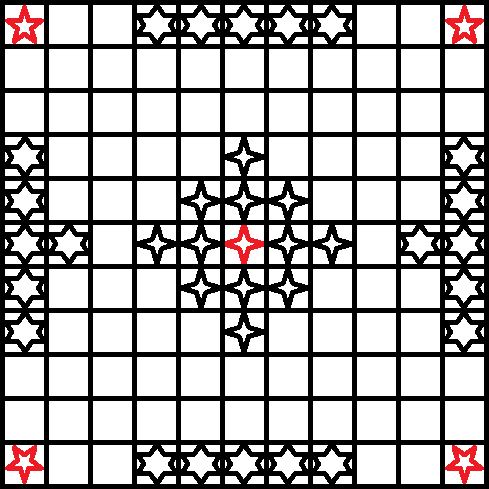
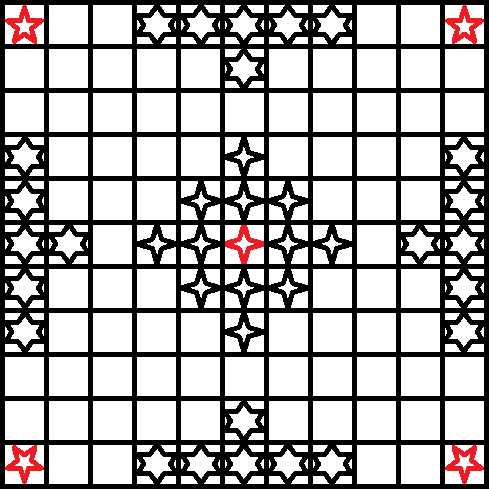
Le jeu est jouable, il manque les tours

Changed region(s): [[0.4601, 0.7975, 0.5521, 0.9202], [0.4601, 0.092, 0.5521, 0.184]]

diff --git a/MainWindow.cpp b/MainWindow.cpp
@@ -14,13 +14,54 @@ MainWindow::MainWindow()
 		}
 	}  
 
-	m_etatJeu[0][5] = PIECE_BLANC;
+	m_etatJeu[0][3] = PIECE_NOIR;
+	m_etatJeu[0][4] = PIECE_NOIR;
+	m_etatJeu[0][5] = PIECE_NOIR;
+	m_etatJeu[0][6] = PIECE_NOIR;
+	m_etatJeu[0][7] = PIECE_NOIR;
 	m_etatJeu[1][5] = PIECE_NOIR;
-	m_etatJeu[4][5] = PIECE_NOIR;
-	m_etatJeu[3][5] = PIECE_NOIR;
-	m_etatJeu[2][5] = PIECE_NOIR;
-	m_etatJeu[5][5] = PIECE_ROI;
-	m_etatJeu[2][3] = PIECE_NOIR;
+
+	m_etatJeu[10][3] = PIECE_NOIR;
+	m_etatJeu[10][4] = PIECE_NOIR;
+	m_etatJeu[10][5] = PIECE_NOIR;
+	m_etatJeu[10][6] = PIECE_NOIR;
+	m_etatJeu[10][7] = PIECE_NOIR;
+	m_etatJeu[9][5] = PIECE_NOIR;
+
+	m_etatJeu[3][0] = PIECE_NOIR;
+	m_etatJeu[4][0] = PIECE_NOIR;
+	m_etatJeu[5][0] = PIECE_NOIR;
+	m_etatJeu[6][0] = PIECE_NOIR;
+	m_etatJeu[7][0] = PIECE_NOIR;
+	m_etatJeu[5][1] = PIECE_NOIR;
+
+	m_etatJeu[3][10] = PIECE_NOIR;
+	m_etatJeu[4][10] = PIECE_NOIR;
+	m_etatJeu[5][10] = PIECE_NOIR;
+	m_etatJeu[6][10] = PIECE_NOIR;
+	m_etatJeu[7][10] = PIECE_NOIR;
+	m_etatJeu[5][9] = PIECE_NOIR;
+
+
+	m_etatJeu[5][5] = PIECE_ROI; 
+
+	m_etatJeu[5][6] = PIECE_BLANC; 
+	m_etatJeu[5][4] = PIECE_BLANC;
+	
+	m_etatJeu[6][5] = PIECE_BLANC;
+	m_etatJeu[4][5] = PIECE_BLANC;
+
+	m_etatJeu[4][4] = PIECE_BLANC;
+	m_etatJeu[6][6] = PIECE_BLANC;
+
+	m_etatJeu[6][4] = PIECE_BLANC;
+	m_etatJeu[4][6] = PIECE_BLANC;
+
+	m_etatJeu[5][3] = PIECE_BLANC;
+	m_etatJeu[5][7] = PIECE_BLANC;
+
+	m_etatJeu[3][5] = PIECE_BLANC;
+	m_etatJeu[7][5] = PIECE_BLANC;
 
 	m_background = new QLabel(this);
 	m_pixmap = new QPixmap(PATH + "background.png");
@@ -82,53 +123,56 @@ void MainWindow::keyPressEvent(QKeyEvent *event)
 			m_pick = true;
 		}
 		//relache la piece
-		else if (m_pick && mouvementLegal(m_XPick, m_YPick, m_x, m_y, m_etatJeu))
+		else if (m_pick)
 		{ 
-			//changer les images de place
-			m_pixmap = new QPixmap(PATH + "case_0" + QString::number(m_etatJeu[m_x][m_y]) + ".png");
-			m_tableJeu[m_x][m_y]->setPixmap(*m_pixmap);
-			m_tableJeu[m_x][m_y]->setGeometry(QRect(QPoint(m_x * 44, m_y * 44), QSize(49, 49)));
-
-			m_pixmap = new QPixmap(CASE_VIDE);
-			m_tableJeu[m_XPick][m_YPick]->setPixmap(*m_pixmap);
-			m_tableJeu[m_XPick][m_YPick]->setGeometry(QRect(QPoint(m_XPick * 44, m_YPick * 44), QSize(49, 49)));
-			 
-			switch (capture(m_x, m_y, m_etatJeu))
+			if (mouvementLegal(m_XPick, m_YPick, m_x, m_y, m_etatJeu))
 			{
-			case HAUT:
-				m_pixmap = new QPixmap(CASE_VIDE);
-				m_tableJeu[m_x][m_y - 1]->setPixmap(*m_pixmap);
-				m_tableJeu[m_x][m_y - 1]->setGeometry(QRect(QPoint(m_x * 44, (m_y - 1) * 44), QSize(49, 49)));
+				//changer les images de place
+				m_pixmap = new QPixmap(PATH + "case_0" + QString::number(m_etatJeu[m_x][m_y]) + ".png");
+				m_tableJeu[m_x][m_y]->setPixmap(*m_pixmap);
+				m_tableJeu[m_x][m_y]->setGeometry(QRect(QPoint(m_x * 44, m_y * 44), QSize(49, 49)));
 
-				m_etatJeu[m_x][m_y - 1] = VIDE;
-				break;
-			case BAS:
 				m_pixmap = new QPixmap(CASE_VIDE);
-				m_tableJeu[m_x][m_y + 1]->setPixmap(*m_pixmap);
-				m_tableJeu[m_x][m_y + 1]->setGeometry(QRect(QPoint(m_x * 44, (m_y + 1) * 44), QSize(49, 49)));
+				m_tableJeu[m_XPick][m_YPick]->setPixmap(*m_pixmap);
+				m_tableJeu[m_XPick][m_YPick]->setGeometry(QRect(QPoint(m_XPick * 44, m_YPick * 44), QSize(49, 49)));
 
-				m_etatJeu[m_x][m_y + 1] = VIDE;
-				break;
-			case DROIT:
-				m_pixmap = new QPixmap(CASE_VIDE);
-				m_tableJeu[m_x + 1][m_y]->setPixmap(*m_pixmap);
-				m_tableJeu[m_x + 1][m_y]->setGeometry(QRect(QPoint((m_x + 1) * 44, m_y * 44), QSize(49, 49)));
+				switch (capture(m_x, m_y, m_etatJeu))
+				{
+				case HAUT:
+					m_pixmap = new QPixmap(CASE_VIDE);
+					m_tableJeu[m_x][m_y - 1]->setPixmap(*m_pixmap);
+					m_tableJeu[m_x][m_y - 1]->setGeometry(QRect(QPoint(m_x * 44, (m_y - 1) * 44), QSize(49, 49)));
 
-				m_etatJeu[m_x + 1][m_y] = VIDE;
-				break;
-			case GAUCHE:
-				m_pixmap = new QPixmap(CASE_VIDE);
-				m_tableJeu[m_x - 1][m_y]->setPixmap(*m_pixmap);
-				m_tableJeu[m_x - 1][m_y]->setGeometry(QRect(QPoint((m_x - 1) * 44, m_y * 44), QSize(49, 49)));
+					m_etatJeu[m_x][m_y - 1] = VIDE;
+					break;
+				case BAS:
+					m_pixmap = new QPixmap(CASE_VIDE);
+					m_tableJeu[m_x][m_y + 1]->setPixmap(*m_pixmap);
+					m_tableJeu[m_x][m_y + 1]->setGeometry(QRect(QPoint(m_x * 44, (m_y + 1) * 44), QSize(49, 49)));
 
-				m_etatJeu[m_x - 1][m_y] = VIDE;
-				break;
-			case DEFAIT_NOIR:
-				cout << "les noir on perdu" << endl;
-				break;
-			case DEFAIT_BLANC:
-				cout << "les blanc on perdu" << endl;
-				break;
+					m_etatJeu[m_x][m_y + 1] = VIDE;
+					break;
+				case DROIT:
+					m_pixmap = new QPixmap(CASE_VIDE);
+					m_tableJeu[m_x + 1][m_y]->setPixmap(*m_pixmap);
+					m_tableJeu[m_x + 1][m_y]->setGeometry(QRect(QPoint((m_x + 1) * 44, m_y * 44), QSize(49, 49)));
+
+					m_etatJeu[m_x + 1][m_y] = VIDE;
+					break;
+				case GAUCHE:
+					m_pixmap = new QPixmap(CASE_VIDE);
+					m_tableJeu[m_x - 1][m_y]->setPixmap(*m_pixmap);
+					m_tableJeu[m_x - 1][m_y]->setGeometry(QRect(QPoint((m_x - 1) * 44, m_y * 44), QSize(49, 49)));
+
+					m_etatJeu[m_x - 1][m_y] = VIDE;
+					break;
+				case DEFAIT_NOIR:
+					cout << "les noir on perdu" << endl;
+					break;
+				case DEFAIT_BLANC:
+					cout << "les blanc on perdu" << endl;
+					break;
+				}
 			}
 
 			m_pick = false;

diff --git a/MaitreDuJeu.cpp b/MaitreDuJeu.cpp
@@ -105,6 +105,7 @@ bool mouvementLegal(int x, int y, int nx, int ny, int m_etatJeu[11][11])
 {
 	if (m_etatJeu[nx][ny] == VIDE && (x == nx || y == ny))
 	{
+		//gere les collisions
 		if (y == ny)
 		{ 
 			if (x > nx)
@@ -151,6 +152,8 @@ bool mouvementLegal(int x, int y, int nx, int ny, int m_etatJeu[11][11])
 				}
 			}
 		}
+
+		//echange les etats + retourne vrai pour que le mouvement soit legal
 		m_etatJeu[nx][ny] = m_etatJeu[x][y];
 		m_etatJeu[x][y] = VIDE; 
 		return true;
